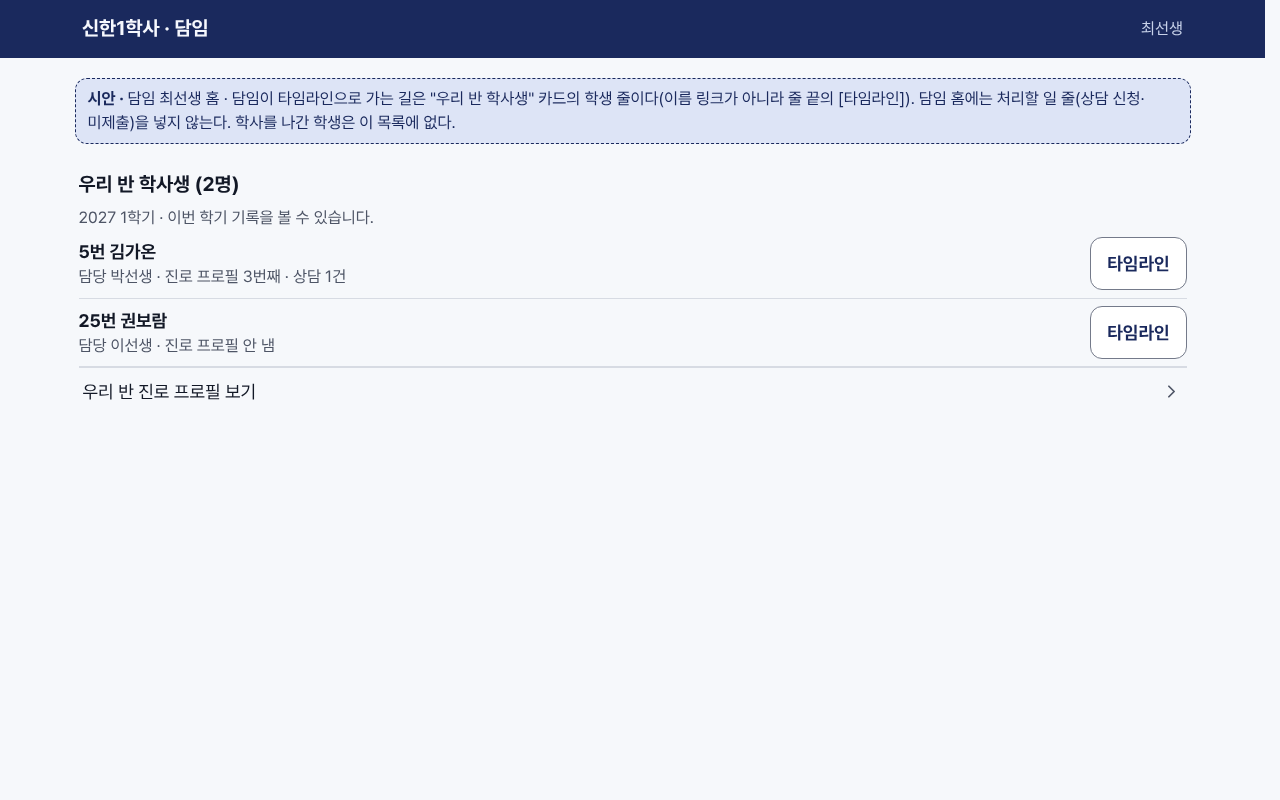
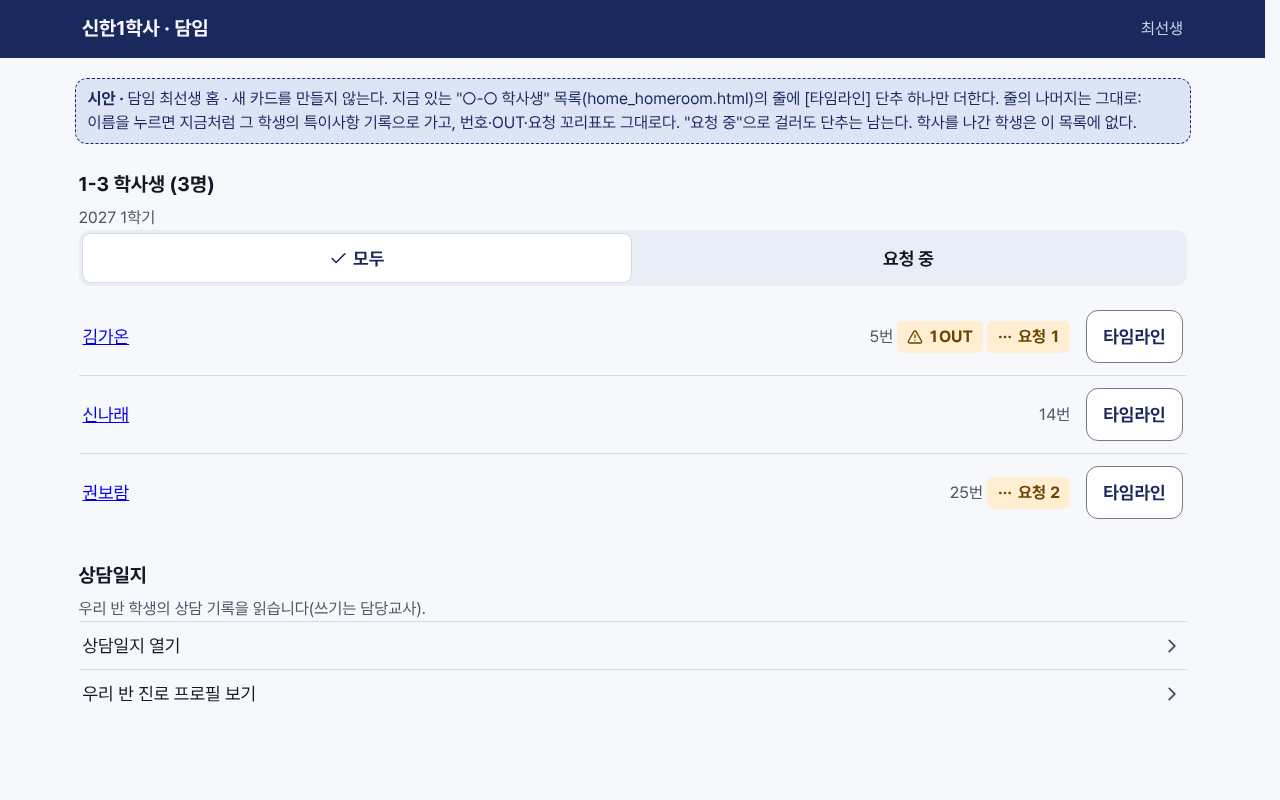
D28 보강: 담임 진입은 지금 있는 학사생 목록 줄에 단추 하나, 관리자·출결 확정 반영 (#337)
Claude-Session: https://claude.ai/code/session_01By8YaWkfK9cbtnKxFetPty

diff --git a/design/preview/stage6b-screens.js b/design/preview/stage6b-screens.js
@@ -530,14 +530,18 @@ def('t-timeline-pick', '교사 · 학생 타임라인', '학생 고르기(담당
   m.appendChild(card('', [el('div', { class: 'ld-row' }, [el('button', { type: 'button', class: 'ld-pick' }, [el('span', { class: 'ld-name', text: '1. 김가온' }), el('span', { class: 'muted', text: '2026 2학기에 담당 · 지금 담당 박선생' })]), el('span', { style: 'flex:0 0 auto;white-space:nowrap' }, [UI.statusPill('mute', '읽기 전용')])])]));
 });
 
-def('t-timeline-hr-home', '교사 · 학생 타임라인', '담임 홈에서 들어가는 길(우리 반 학사생)', {}, function (root) {
+def('t-timeline-hr-home', '교사 · 학생 타임라인', '담임 홈에서 들어가는 길(지금 있는 학사생 목록 줄에 단추 하나)', {}, function (root) {
   root.appendChild(el('header', { class: 'top' }, [el('h1', { text: '신한1학사 · 담임' }), el('div', { class: 'who', text: '최선생' })]));
   var m = el('main', { class: 'home' }); root.appendChild(m);
-  m.appendChild(noteBox('담임 최선생 홈 · 담임이 타임라인으로 가는 길은 "우리 반 학사생" 카드의 학생 줄이다(이름 링크가 아니라 줄 끝의 [타임라인]). 담임 홈에는 처리할 일 줄(상담 신청·미제출)을 넣지 않는다. 학사를 나간 학생은 이 목록에 없다.'));
-  m.appendChild(card('우리 반 학사생 (2명)', [p('2027 1학기 · 이번 학기 기록을 볼 수 있습니다.'),
-    el('div', { class: 'ld-row' }, [el('div', { style: 'flex:1 1 auto;padding:8px 0' }, [el('b', { text: '5번 김가온' }), p('담당 박선생 · 진로 프로필 3번째 · 상담 1건')]), btn('타임라인')]),
-    el('div', { class: 'ld-row' }, [el('div', { style: 'flex:1 1 auto;padding:8px 0' }, [el('b', { text: '25번 권보람' }), p('담당 이선생 · 진로 프로필 안 냄')]), btn('타임라인')]),
-    UI.rowLink({ href: '#', text: '우리 반 진로 프로필 보기' })]));
+  m.appendChild(noteBox('담임 최선생 홈 · 새 카드를 만들지 않는다. 지금 있는 "○-○ 학사생" 목록(home_homeroom.html)의 줄에 [타임라인] 단추 하나만 더한다. 줄의 나머지는 그대로: 이름을 누르면 지금처럼 그 학생의 특이사항 기록으로 가고, 번호·OUT·요청 꼬리표도 그대로다. "요청 중"으로 걸러도 단추는 남는다. 학사를 나간 학생은 이 목록에 없다.'));
+  function li(name, num, pills) {
+    return el('li', {}, [el('a', { href: '#', text: name }), el('span', { class: 'muted', style: 'display:flex;gap:4px;align-items:center;flex-wrap:wrap;justify-content:flex-end;margin-left:auto' }, [num + '번 '].concat(pills)),
+      el('button', { type: 'button', class: 'btn secondary row-btn', style: 'flex:0 0 auto;margin-left:8px', text: '타임라인' })]);
+  }
+  m.appendChild(card('1-3 학사생 (3명)', [p('2027 1학기'),
+    UI.segmented({ label: '보기', value: 'all', options: [{ value: 'all', label: '모두' }, { value: 'req', label: '요청 중' }], onchange: function () {} }),
+    el('ul', { class: 'list' }, [li('김가온', 5, [UI.statusPill('out1'), UI.statusPill('requested', '요청 1')]), li('신나래', 14, []), li('권보람', 25, [UI.statusPill('requested', '요청 2')])])]));
+  m.appendChild(card('상담일지', [p('우리 반 학생의 상담 기록을 읽습니다(쓰기는 담당교사).'), UI.rowLink({ href: '#', text: '상담일지 열기' }), UI.rowLink({ href: '#', text: '우리 반 진로 프로필 보기' })]));
 });
 
 /* ═════════ 8. 관리자 — 탐구 원본 정리 ═════════ */

diff --git a/docs/design/stage6/screens.md b/docs/design/stage6/screens.md
@@ -226,7 +226,8 @@
 | 지금 담당교사 | 이번 기간 + 지난 기간 전부(전 담당 때의 기록, 상담 내용 포함) | 이번 기간 것만(피드백·신청 처리·상담일지) | 지난 기간 구분 줄에 "그때 담당 ○○○" |
 | 전 담당교사 | 자기가 담당했던 기간만 | 못 함 | 맨 위 안내 + 머리 꼬리표 **"읽기 전용"** + 아래 "○○ 기간부터의 기록은 지금 담당 선생님이 봅니다." |
 | 담임(자기 반, 이번 기간 등록) | 이번 기간만 | 못 함 | 맨 위 안내 + 머리 꼬리표 "보기만". 상담 신청 줄에 학생 메모 없음 |
-| 관리자 | 전부 | 못 함(처리는 담당교사) | 지금 담당교사와 같은 모습에서 쓰는 단추만 없다 |
+| 관리자 | 전부 | 못 함(처리는 담당교사) | 지금 담당교사와 같은 모습에서 쓰는 단추만 없다(확정) |
+| 관리자이면서 그 학생의 지금 담당 | 전부 | 이번 기간 것만 | 지금 담당교사 모습 그대로(쓰는 단추 있음). 담당이 아닌 학생은 위 관리자 줄 |
 | 그 밖(담당 아님·출결 담당·근무표 담당자) | — | — | 화면이 열리지 않는다(권한 없음 화면) |
 
 ![지금 담당](photos/t-timeline-360.png) ![전 담당](photos/t-timeline-former-360.png) ![담임](photos/t-timeline-homeroom-360.png)
@@ -247,7 +248,7 @@
 | 상담 | "○○○ · 유형 상담" | "합의: …"(내용은 싣지 않는다. 볼 수 있는 교사는 줄을 눌러 상담일지로) |
 | 탐구 | 주제 제목 또는 "기록 파일 올림 · 새 기록 n건" | 진행 상태·피드백 수. 파일 이름이 달랐으면 꼬리표 **"이름 다름"**(결정 93) |
 | OUT | "1OUT · 항목" | 없음 |
-| 출결 | "n월 출결 요약"(지난 기간은 "n학기 출결 요약" 한 줄) | 출석·지각·조퇴·결석·학원·가정 수 |
+| 출결 | 이번 기간은 달마다 "n월 출결 요약" 한 줄, 지난 기간은 기간에 "n학기 출결 요약" 한 줄(확정) | 출석·지각·조퇴·결석·학원·가정 수 |
 
 **안내 문구**
 - 전 담당: "2026 2학기에 담당했던 학생입니다. 그 기간의 기록만 보이고, 새로 쓰거나 고칠 수 없습니다. 지금 담당은 ○○○ 선생님입니다."
@@ -260,7 +261,7 @@
 - **빈 상태**(`t-timeline-empty`): 기간 구분 줄은 그리고 그 아래 "아직 기록이 없습니다." + "진로 프로필을 내거나 상담·탐구 기록이 생기면 여기에 날짜순으로 나옵니다." 보기 칩으로 걸렀는데 없으면 "이 종류의 기록이 없습니다."
 - **담당교사가 들어가는 길:** ① 진로 프로필·상담 신청 처리·상담일지의 한 명 보기에 있는 [학생 타임라인 열기](그 학생으로 바로) ② 홈의 [학생 타임라인] → **학생 고르기**(`t-timeline-pick`).
 - **학생 고르기:** 위에 "학생 찾기", 구역 "지금 담당 학생 n명"(이름 + 반·번호 + 최근 기록 날짜 또는 "기록 없음"), 구역 **"전에 담당한 학생 n명"**(이름 + "2026 2학기에 담당 · 지금 담당 ○○○" + 꼬리표 "읽기 전용"). 전에 담당한 학생이 없으면 그 구역을 그리지 않는다. 노트북에서는 목록 | 타임라인 두 칸.
-- **담임이 들어가는 길**(`t-timeline-hr-home`): 담임 홈의 "우리 반 학사생" 카드. 학생 줄(번호·이름, "담당 ○○○ · 진로 프로필 n번째 · 상담 n건") 끝의 **[타임라인]**. 학사를 나간 학생은 이 목록에 없다. 담임 홈에는 처리할 일 줄(상담 신청·미제출)을 넣지 않는다.
+- **담임이 들어가는 길**(`t-timeline-hr-home`): **새 카드를 만들지 않는다.** 지금 있는 담임 홈의 "○-○ 학사생 (n명)" 목록(`home_homeroom.html`)의 줄 끝에 **[타임라인]** 단추 하나만 더한다. 줄의 나머지는 그대로다 — 이름을 누르면 지금처럼 그 학생의 특이사항 기록으로 가고, "n번" + OUT 꼬리표 + "요청 n" 꼬리표가 가운데에 남는다. 좁은 화면에서는 꼬리표가 줄 안에서 꺾이고 단추는 오른쪽 끝에 남는다. 보기를 "요청 중"으로 걸러도 단추는 남는다. 학사를 나간 학생은 이 목록에 없다. 담임 홈에는 처리할 일 줄(상담 신청·미제출)을 넣지 않는다.
 - **관리자:** 학생 찾기로 전체 학사생에서 고른다(구역 나눔 없음).
 - 학사를 나간(퇴실·졸업) 학생: 그 기록이 생긴 기간의 담당이었던 교사와 관리자만 본다(결정 97). 전 담당 화면과 같은 모습이고 안내는 "학사를 나간 학생입니다. 담당했던 기간의 기록만 보이고, 새로 쓰거나 고칠 수 없습니다."
 
